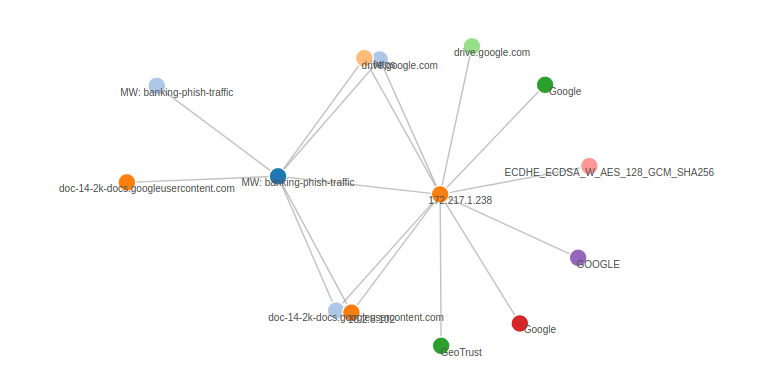
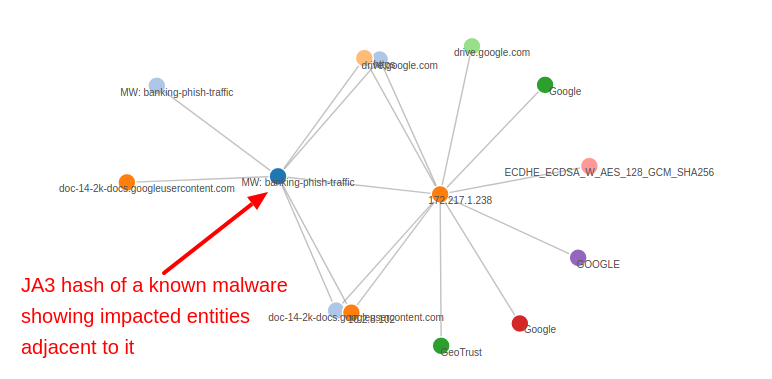
JA3 Server Hash added and new metrics for that

diff --git a/analyzers/tls-print/README.md b/analyzers/tls-print/README.md
@@ -2,7 +2,9 @@
 
 This Trisul APP adds TLS Fingerprinting capability to TrisulNSM. 
 
-TLS fingerprinting is a network analytics technique to intelligently guess a SSL/TLS client.  Use this to detect rogue clients, build a profile of known clients.  It is just a very good extra piece of info  when more than 70% of enterprise traffic these days are using SSL/TLS. 
+> *New*  Added JA3 Server Hash 
+
+TLS fingerprinting is a network analytics technique to intelligently guess a SSL/TLS client which may not otherwise be possible due to encryption.  Use this to detect rogue clients with known prints, to build a profile of known clients for whitelisting, or as an indicator to be used in combination with other techniques.  It is a good piece of info to have particularly when 90% of enterprise traffic these days are encrypted.  This uses the JA3 Hash (see below) 
 
 
 Links:
@@ -13,8 +15,10 @@ Links:
 
 ## Installing 
 
-1. To install the "TLS Print" APP. Logon as admin, then select APP from _Web Admin > Manage > Apps._
-2. Then restart the Trisul Probes to turn the app live.
+1. Logon as admin, then select _TLS Fingerprinter_  from  _Web Admin > Manage > Apps._ to install
+2. Restart the Trisul Probes 
+
+![Install App](appinstall.png) 
 
 ### 1. The TLS Fingerprint database 
 
@@ -32,26 +36,55 @@ If you have a different JSON database you can put it in the share directory at t
 /usr/local/share/trisul-probe/plugins/tls-fingerprints.json 
 ````
 
+### 2. Custom options : Logging hashes per flow 
+
+You can choose to log the { SSL Flow + JA3 Hash + JA3 print } on a per flow basis for troubleshooting. 
+By default this option is turned off, to enable 
+
+````
+# create a file named /usr/local/var/lib/trisul-probe/domain0/probe0/context0/config/trisulnsm_tls-fingerprint.lua"
+# put the lines below in that file 
+
+
+return {
+		-- logs for each TLS flow the FlowID, JA3-Hash, JA3-String
+		-- default is false, override if you want to debug or harvest strings in  the following file
+        -- /usr/local/var/lib/trisul-probe/d0/p0/cX/config/trisulnsm_tls-fingerprint.lua  config file 
+        LogHashes=false,
+} 
+
+````
+
 ## Screenshots 
 
-![Retro Counters > JA3 ](https://raw.githubusercontent.com/trisulnsm/apps/master/analyzers/tls-print/ja3_topk.png?raw=true) 
 
-![Retro Counters > JA3 > Click on Print > View Edge ](https://raw.githubusercontent.com/trisulnsm/apps/master/analyzers/tls-print/ja3_graph.png?raw=true) 
+### Top-K and Bottom-K
 
+The following screenshot shows the metrics for each fingerprint seen.  For _resolved fingerprints_ you will see the name, for unresolved the raw MD5 print. You can click on the button for further exploration.
 
+![Retro Counters > JA3 ](ja3_topk.png) 
+
+### EDGE - graph analytics
+
+The following screenshot shows Trisul EDGE Graph analytics, you can click on a fingerprint and expose the adjacent vertices such as which IP addresses, Ports, Servers, SNI, Certificates are related to the print. 
+
+![Retro Counters > JA3 > Click on Print > View Edge ](ja3_graph.png) 
 
 ## Using 
 
-The APP adds a new Counter Group called "JA3 Hash"
+The APP adds a new Counter Group called "JA3 Print" 
 
-1. Use Retro > Retro Counters, then select _JA3 Hash_  to show time distribution of each fingerprint seen.
+1. Use Retro > Retro Counters, then select _JA3 Print_  to show time distribution of each fingerprint seen.
 2. Click and select _View Edges_ to explore deeper using Trisul's streaming graph analytics 
 3. If you want to discover and tag new prints, consult Trisul LUA Wiki for examples 
+4. Flows are tagged with first 8 characters of JA3 Hash 
+
 
 UPDATES
 =======
 
 ````
+0.0.8   Aug 8  2018     Added JA3 Server Hash  and option to print to log file 
 0.0.7   Jul 3  2018     Minor error when no extensions are present. We cant do FP for that.
 0.0.6   Jun 28 2018     Dont log all hashes, instead update_key info if user wants to see JA3 string 
                         for a given JA3 hash 
